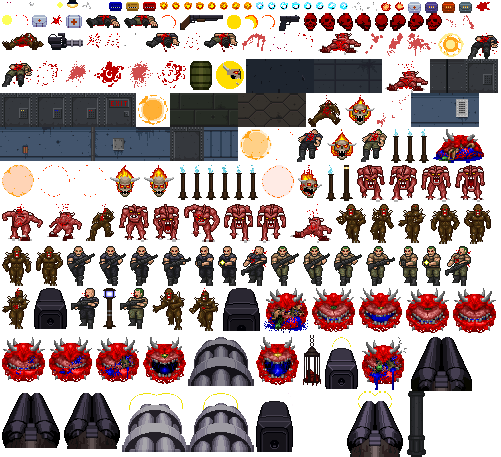
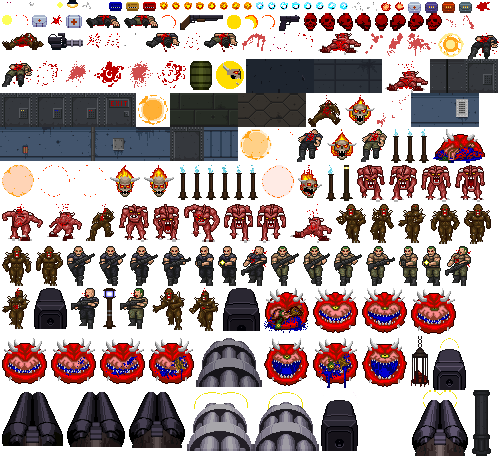
Updated cacodemon sprite

diff --git a/src/assets/scripts/components/Game/scenes/WorldScene/sprites/EnemySprite/index.js b/src/assets/scripts/components/Game/scenes/WorldScene/sprites/EnemySprite/index.js
@@ -23,7 +23,7 @@ class EnemySprite extends AnimatedEntitySprite {
   constructor(enemy, textureCollection = []) {
     const { textures } = textureCollection[STATES.IDLE];
 
-    super(textures, { animationSpeed: 0.2 });
+    super(textures, { animationSpeed: 0.15 });
 
     enemy.onIdle(() => this.setAnimation(STATES.IDLE));
     enemy.onAlerted(() => this.setAnimation(STATES.IDLE));
